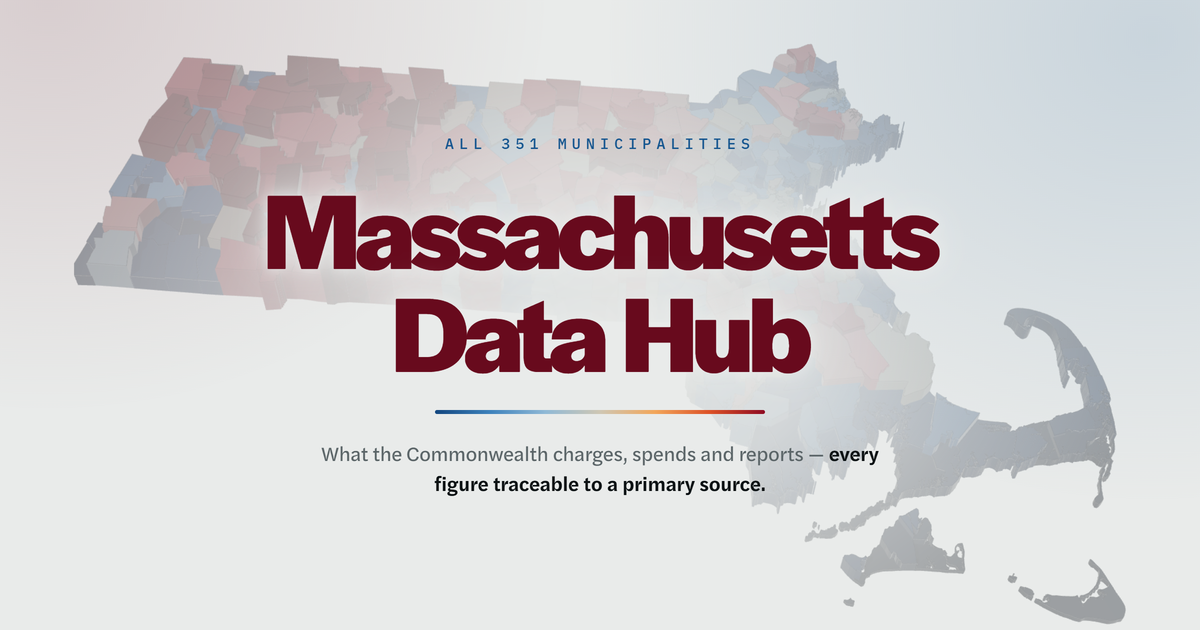
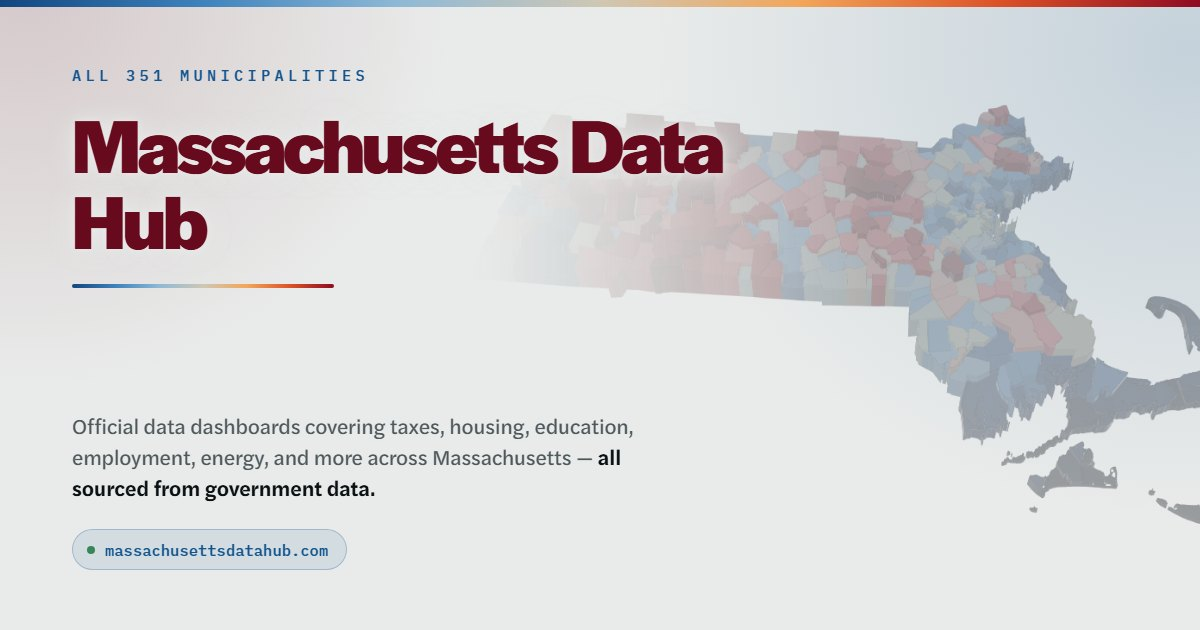
A social card for every page, with the old card's bones back
Two problems, one visible and one structural.

Structurally, every page shared a single og-image.png. seo.py added it where a
page had none and then never touched it again, so a link to Energy and a link to
Pensions previewed identically - and all-things-boston kept pointing at an image
in a different repository entirely. build_cards.py now renders a card per page
from that page's own og:title and og:description, which means the card cannot
disagree with the page it advertises, and fixing a description fixes both.

Visibly, the card lost its structure in the restyle. The old one anchored its
description and its address to the lower left; the replacement centred
everything, washed the map out beneath the type and left the bottom third empty,
which is what makes a shared post read as a dead image rather than a designed
one. The bones are back - wordmark, headline, rule, description, address, all
down the left column - under the current light identity rather than the old navy
one, so a reader who clicks through lands somewhere that looks like the card
they clicked. The state now sits off the right edge instead of under the text,
which is what let the type go pale in the first place, and a hairline of the
colour ramp runs along the top so the card has a decided edge in a pale feed.

The headline is fitted rather than set, stepping down until it fits three lines,
because titles here run from two words to ten.
[…]

diff --git a/affordability-dashboard.html b/affordability-dashboard.html
@@ -8,13 +8,13 @@
   <meta property="og:title" content="What It Costs to Live in Massachusetts">
   <meta property="og:description" content="What is actually expensive in Massachusetts, where in the state it is expensive, and what a household needs to earn — from BEA Regional Price Parities and the MIT Living Wage Calculator.">
   <meta property="og:url" content="https://massachusettsdatahub.com/affordability-dashboard.html">
-  <meta property="og:image" content="https://massachusettsdatahub.com/og-image.png">
+  <meta property="og:image" content="https://massachusettsdatahub.com/cards/affordability-dashboard.jpg">
   <meta property="og:image:width" content="1200">
   <meta property="og:image:height" content="630">
   <meta name="twitter:card" content="summary_large_image">
   <meta name="twitter:title" content="What It Costs to Live in Massachusetts">
   <meta name="twitter:description" content="What is actually expensive in Massachusetts, where in the state it is expensive, and what a household needs to earn — from BEA Regional Price Parities and the MIT Living Wage Calculator.">
-  <meta name="twitter:image" content="https://massachusettsdatahub.com/og-image.png">
+  <meta name="twitter:image" content="https://massachusettsdatahub.com/cards/affordability-dashboard.jpg">
   <meta name="description" content="What is actually expensive in Massachusetts, where in the state it is expensive, and what a household needs to earn — from BEA Regional Price Parities and the MIT Living Wage Calculator.">
 <meta name="viewport" content="width=device-width, initial-scale=1.0">
 <link rel="canonical" href="https://massachusettsdatahub.com/affordability-dashboard.html">

diff --git a/all-things-boston.html b/all-things-boston.html
@@ -16,13 +16,13 @@
 <meta property="og:url" content="https://massachusettsdatahub.com/all-things-boston.html">
 <meta property="og:title" content="All Things Boston — City Accountability Dashboard">
 <meta property="og:description" content="Veterans $3.3M. DEI/Equity $28.5M. 52× growth. 80% of shootings in 4 neighborhoods. 19.0% office vacancy. $3.4B pension gap. All from official government data.">
-<meta property="og:image" content="https://duncanburns2013-dot.github.io/All-Things-Boston/all-things-boston-social.png">
+<meta property="og:image" content="https://massachusettsdatahub.com/cards/all-things-boston.jpg">
 <meta property="og:image:width" content="1200">
 <meta property="og:image:height" content="630">
 <meta name="twitter:card" content="summary_large_image">
 <meta name="twitter:title" content="All Things Boston — City Accountability Dashboard">
 <meta name="twitter:description" content="Veterans $3.3M. DEI/Equity $28.5M. 52× growth. 80% of shootings in 4 neighborhoods. 19.0% office vacancy. $3.4B pension gap. All from official government data.">
-<meta name="twitter:image" content="https://duncanburns2013-dot.github.io/All-Things-Boston/all-things-boston-social.png">
+<meta name="twitter:image" content="https://massachusettsdatahub.com/cards/all-things-boston.jpg">
 <script src="https://cdnjs.cloudflare.com/ajax/libs/Chart.js/4.4.1/chart.umd.min.js" integrity="sha384-bs/nf9FbdNouRbMiFcrcZfLXYPKiPaGVGplVbv7dLGECccEXDW+S3zjqSKR5ZEaD" crossorigin="anonymous"></script>
 <link href="https://fonts.googleapis.com/css2?family=DM+Sans:wght@400;500;600;700&family=DM+Serif+Display&display=swap" rel="stylesheet">
 <style>

diff --git a/education-merrimack-valley.html b/education-merrimack-valley.html
@@ -8,13 +8,13 @@
   <meta property="og:title" content="Merrimack Valley Education — Performance Dashboard">
   <meta property="og:description" content="MCAS achievement, growth, absenteeism, graduation, accountability and school spending for Haverhill, Methuen and Lawrence — against the Massachusetts average.">
   <meta property="og:url" content="https://massachusettsdatahub.com/education-merrimack-valley.html">
-  <meta property="og:image" content="https://massachusettsdatahub.com/og-image.png">
+  <meta property="og:image" content="https://massachusettsdatahub.com/cards/education-merrimack-valley.jpg">
   <meta property="og:image:width" content="1200">
   <meta property="og:image:height" content="630">
   <meta name="twitter:card" content="summary_large_image">
   <meta name="twitter:title" content="Merrimack Valley Education — Performance Dashboard">
   <meta name="twitter:description" content="MCAS achievement, growth, absenteeism, graduation, accountability and school spending for Haverhill, Methuen and Lawrence — against the Massachusetts average.">
-  <meta name="twitter:image" content="https://massachusettsdatahub.com/og-image.png">
+  <meta name="twitter:image" content="https://massachusettsdatahub.com/cards/education-merrimack-valley.jpg">
   <meta name="description" content="MCAS achievement, growth, absenteeism, graduation, accountability and school spending for Haverhill, Methuen and Lawrence — against the Massachusetts average.">
 <meta name="viewport" content="width=device-width, initial-scale=1.0">
 <link rel="canonical" href="https://massachusettsdatahub.com/education-merrimack-valley.html">

diff --git a/tax-budget-dashboard.html b/tax-budget-dashboard.html
@@ -8,13 +8,13 @@
   <meta property="og:title" content="Massachusetts Tax Burden & State Budget">
   <meta property="og:description" content="Income taxes, property taxes, state spending, competitiveness rankings, and cost of living in Massachusetts — sourced from official U.S. government data.">
   <meta property="og:url" content="https://massachusettsdatahub.com/tax-budget-dashboard.html">
-  <meta property="og:image" content="https://massachusettsdatahub.com/og-image.png">
+  <meta property="og:image" content="https://massachusettsdatahub.com/cards/tax-budget-dashboard.jpg">
   <meta property="og:image:width" content="1200">
   <meta property="og:image:height" content="630">
   <meta name="twitter:card" content="summary_large_image">
   <meta name="twitter:title" content="Massachusetts Tax Burden & State Budget">
   <meta name="twitter:description" content="Income taxes, property taxes, state spending, competitiveness rankings, and cost of living in Massachusetts — sourced from official U.S. government data.">
-  <meta name="twitter:image" content="https://massachusettsdatahub.com/og-image.png">
+  <meta name="twitter:image" content="https://massachusettsdatahub.com/cards/tax-budget-dashboard.jpg">
   <meta name="description" content="Income taxes, property taxes, state spending, competitiveness rankings, and cost of living in Massachusetts — sourced from official U.S. government data.">
 <meta name="viewport" content="width=device-width,initial-scale=1.0">
 <link rel="canonical" href="https://massachusettsdatahub.com/tax-budget-dashboard.html">

diff --git a/immigration-dashboard.html b/immigration-dashboard.html
@@ -8,13 +8,13 @@
   <meta property="og:title" content="Immigration & Massachusetts Population Dashboard">
   <meta property="og:description" content="Immigration trends, demographic shifts, and population data for Massachusetts — sourced from Census Bureau, DHS, and official government records.">
   <meta property="og:url" content="https://massachusettsdatahub.com/immigration-dashboard.html">
-  <meta property="og:image" content="https://massachusettsdatahub.com/og-image.png">
+  <meta property="og:image" content="https://massachusettsdatahub.com/cards/immigration-dashboard.jpg">
   <meta property="og:image:width" content="1200">
   <meta property="og:image:height" content="630">
   <meta name="twitter:card" content="summary_large_image">
   <meta name="twitter:title" content="Immigration & Massachusetts Population Dashboard">
   <meta name="twitter:description" content="Immigration trends, demographic shifts, and population data for Massachusetts — sourced from Census Bureau, DHS, and official government records.">
-  <meta name="twitter:image" content="https://massachusettsdatahub.com/og-image.png">
+  <meta name="twitter:image" content="https://massachusettsdatahub.com/cards/immigration-dashboard.jpg">
   <meta name="description" content="Immigration trends, demographic shifts, and population data for Massachusetts — sourced from Census Bureau, DHS, and official government records.">
 <meta name="viewport" content="width=device-width, initial-scale=1.0">
 <link rel="canonical" href="https://massachusettsdatahub.com/immigration-dashboard.html">

diff --git a/commercial-re-dashboard.html b/commercial-re-dashboard.html
@@ -8,13 +8,13 @@
   <meta property="og:title" content="Boston Commercial Real Estate Dashboard">
   <meta property="og:description" content="Office, retail, and industrial real estate vacancy, rent, and absorption trends across Greater Boston and Massachusetts.">
   <meta property="og:url" content="https://massachusettsdatahub.com/commercial-re-dashboard.html">
-  <meta property="og:image" content="https://massachusettsdatahub.com/og-image.png">
+  <meta property="og:image" content="https://massachusettsdatahub.com/cards/commercial-re-dashboard.jpg">
   <meta property="og:image:width" content="1200">
   <meta property="og:image:height" content="630">
   <meta name="twitter:card" content="summary_large_image">
   <meta name="twitter:title" content="Boston Commercial Real Estate Dashboard">
   <meta name="twitter:description" content="Office, retail, and industrial real estate vacancy, rent, and absorption trends across Greater Boston and Massachusetts.">
-  <meta name="twitter:image" content="https://massachusettsdatahub.com/og-image.png">
+  <meta name="twitter:image" content="https://massachusettsdatahub.com/cards/commercial-re-dashboard.jpg">
   <meta name="description" content="Office, retail, and industrial real estate vacancy, rent, and absorption trends across Greater Boston and Massachusetts.">
 <meta name="viewport" content="width=device-width, initial-scale=1.0">
 <link rel="canonical" href="https://massachusettsdatahub.com/commercial-re-dashboard.html">

diff --git a/pension-dashboard.html b/pension-dashboard.html
@@ -8,13 +8,13 @@
   <meta property="og:title" content="Massachusetts Pensions & Unfunded Liabilities">
   <meta property="og:description" content="Pension funding ratios, unfunded liabilities, and contribution data for Massachusetts public employee retirement systems.">
   <meta property="og:url" content="https://massachusettsdatahub.com/pension-dashboard.html">
-  <meta property="og:image" content="https://massachusettsdatahub.com/og-image.png">
+  <meta property="og:image" content="https://massachusettsdatahub.com/cards/pension-dashboard.jpg">
   <meta property="og:image:width" content="1200">
   <meta property="og:image:height" content="630">
   <meta name="twitter:card" content="summary_large_image">
   <meta name="twitter:title" content="Massachusetts Pensions & Unfunded Liabilities">
   <meta name="twitter:description" content="Pension funding ratios, unfunded liabilities, and contribution data for Massachusetts public employee retirement systems.">
-  <meta name="twitter:image" content="https://massachusettsdatahub.com/og-image.png">
+  <meta name="twitter:image" content="https://massachusettsdatahub.com/cards/pension-dashboard.jpg">
   <meta name="description" content="Pension funding ratios, unfunded liabilities, and contribution data for Massachusetts public employee retirement systems.">
 <meta name="viewport" content="width=device-width,initial-scale=1.0">
 <link rel="canonical" href="https://massachusettsdatahub.com/pension-dashboard.html">

diff --git a/education-statewide.html b/education-statewide.html
@@ -8,13 +8,13 @@
   <meta property="og:title" content="Massachusetts K-12 Education Crisis — Performance Dashboard">
   <meta property="og:description" content="Statewide K–12 enrollment, MCAS performance, and school finance data across Massachusetts.">
   <meta property="og:url" content="https://massachusettsdatahub.com/education-statewide.html">
-  <meta property="og:image" content="https://massachusettsdatahub.com/og-image.png">
+  <meta property="og:image" content="https://massachusettsdatahub.com/cards/education-statewide.jpg">
   <meta property="og:image:width" content="1200">
   <meta property="og:image:height" content="630">
   <meta name="twitter:card" content="summary_large_image">
   <meta name="twitter:title" content="Massachusetts K-12 Education Crisis — Performance Dashboard">
   <meta name="twitter:description" content="Statewide K–12 enrollment, MCAS performance, and school finance data across Massachusetts.">
-  <meta name="twitter:image" content="https://massachusettsdatahub.com/og-image.png">
+  <meta name="twitter:image" content="https://massachusettsdatahub.com/cards/education-statewide.jpg">
   <meta name="description" content="Statewide K–12 enrollment, MCAS performance, and school finance data across Massachusetts.">
 <meta name="viewport" content="width=device-width, initial-scale=1.0">
 <link rel="canonical" href="https://massachusettsdatahub.com/education-statewide.html">

diff --git a/pay-to-play-dashboard.html b/pay-to-play-dashboard.html
@@ -8,13 +8,13 @@
   <meta property="og:title" content="Massachusetts Pay-to-Play: Lobbying & Political Spending">
   <meta property="og:description" content="Campaign finance, political contributions, and pay-to-play spending data in Massachusetts.">
   <meta property="og:url" content="https://massachusettsdatahub.com/pay-to-play-dashboard.html">
-  <meta property="og:image" content="https://massachusettsdatahub.com/og-image.png">
+  <meta property="og:image" content="https://massachusettsdatahub.com/cards/pay-to-play-dashboard.jpg">
   <meta property="og:image:width" content="1200">
   <meta property="og:image:height" content="630">
   <meta name="twitter:card" content="summary_large_image">
   <meta name="twitter:title" content="Massachusetts Pay-to-Play: Lobbying & Political Spending">
   <meta name="twitter:description" content="Campaign finance, political contributions, and pay-to-play spending data in Massachusetts.">
-  <meta name="twitter:image" content="https://massachusettsdatahub.com/og-image.png">
+  <meta name="twitter:image" content="https://massachusettsdatahub.com/cards/pay-to-play-dashboard.jpg">
   <meta name="description" content="Campaign finance, political contributions, and pay-to-play spending data in Massachusetts.">
 <meta name="viewport" content="width=device-width,initial-scale=1.0">
 <link rel="canonical" href="https://massachusettsdatahub.com/pay-to-play-dashboard.html">

diff --git a/healthcare-dashboard.html b/healthcare-dashboard.html
@@ -8,13 +8,13 @@
   <meta property="og:title" content="All Things Insurance — Massachusetts Data Hub">
   <meta property="og:description" content="Healthcare costs, insurance coverage rates, and MassHealth enrollment data across Massachusetts.">
   <meta property="og:url" content="https://massachusettsdatahub.com/healthcare-dashboard.html">
-  <meta property="og:image" content="https://massachusettsdatahub.com/og-image.png">
+  <meta property="og:image" content="https://massachusettsdatahub.com/cards/healthcare-dashboard.jpg">
   <meta property="og:image:width" content="1200">
   <meta property="og:image:height" content="630">
   <meta name="twitter:card" content="summary_large_image">
   <meta name="twitter:title" content="All Things Insurance — Massachusetts Data Hub">
   <meta name="twitter:description" content="Healthcare costs, insurance coverage rates, and MassHealth enrollment data across Massachusetts.">
-  <meta name="twitter:image" content="https://massachusettsdatahub.com/og-image.png">
+  <meta name="twitter:image" content="https://massachusettsdatahub.com/cards/healthcare-dashboard.jpg">
   <meta name="description" content="Healthcare costs, insurance coverage rates, and MassHealth enrollment data across Massachusetts.">
 <meta name="viewport" content="width=device-width, initial-scale=1.0">
 <link rel="canonical" href="https://massachusettsdatahub.com/healthcare-dashboard.html">

diff --git a/ma-housing-dashboard.html b/ma-housing-dashboard.html
@@ -8,13 +8,13 @@
   <meta property="og:title" content="Massachusetts Real Estate Market Report | MLS Data Analysis">
   <meta property="og:description" content="Home prices, inventory, sales trends, and affordability data across the Massachusetts housing market.">
   <meta property="og:url" content="https://massachusettsdatahub.com/ma-housing-dashboard.html">
-  <meta property="og:image" content="https://massachusettsdatahub.com/og-image.png">
+  <meta property="og:image" content="https://massachusettsdatahub.com/cards/ma-housing-dashboard.jpg">
   <meta property="og:image:width" content="1200">
   <meta property="og:image:height" content="630">
   <meta name="twitter:card" content="summary_large_image">
   <meta name="twitter:title" content="Massachusetts Real Estate Market Report | MLS Data Analysis">
   <meta name="twitter:description" content="Home prices, inventory, sales trends, and affordability data across the Massachusetts housing market.">
-  <meta name="twitter:image" content="https://massachusettsdatahub.com/og-image.png">
+  <meta name="twitter:image" content="https://massachusettsdatahub.com/cards/ma-housing-dashboard.jpg">
     <meta name="viewport" content="width=device-width, initial-scale=1.0">
 <link rel="canonical" href="https://massachusettsdatahub.com/ma-housing-dashboard.html">
 <link rel="icon" href="https://massachusettsdatahub.com/favicon.svg" type="image/svg+xml">

diff --git a/employment-dashboard.html b/employment-dashboard.html
@@ -8,13 +8,13 @@
   <meta property="og:title" content="Massachusetts Employment & Labor Market">
   <meta property="og:description" content="Labor market trends, unemployment rates, industry employment, and workforce data for Massachusetts.">
   <meta property="og:url" content="https://massachusettsdatahub.com/employment-dashboard.html">
-  <meta property="og:image" content="https://massachusettsdatahub.com/og-image.png">
+  <meta property="og:image" content="https://massachusettsdatahub.com/cards/employment-dashboard.jpg">
   <meta property="og:image:width" content="1200">
   <meta property="og:image:height" content="630">
   <meta name="twitter:card" content="summary_large_image">
   <meta name="twitter:title" content="Massachusetts Employment & Labor Market">
   <meta name="twitter:description" content="Labor market trends, unemployment rates, industry employment, and workforce data for Massachusetts.">
-  <meta name="twitter:image" content="https://massachusettsdatahub.com/og-image.png">
+  <meta name="twitter:image" content="https://massachusettsdatahub.com/cards/employment-dashboard.jpg">
   <meta name="description" content="Labor market trends, unemployment rates, industry employment, and workforce data for Massachusetts.">
 <meta name="viewport" content="width=device-width, initial-scale=1.0">
 <link rel="canonical" href="https://massachusettsdatahub.com/employment-dashboard.html">
